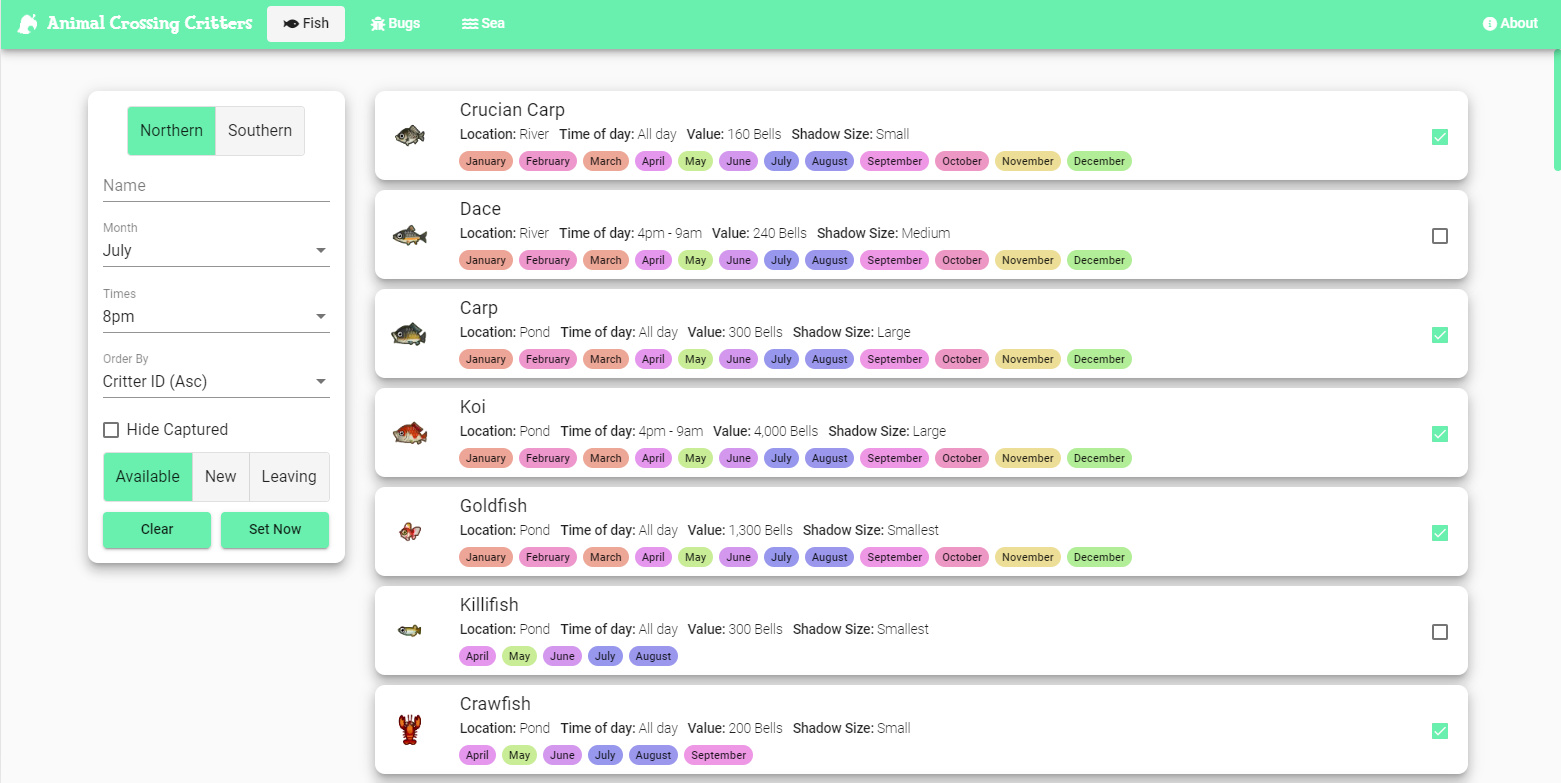
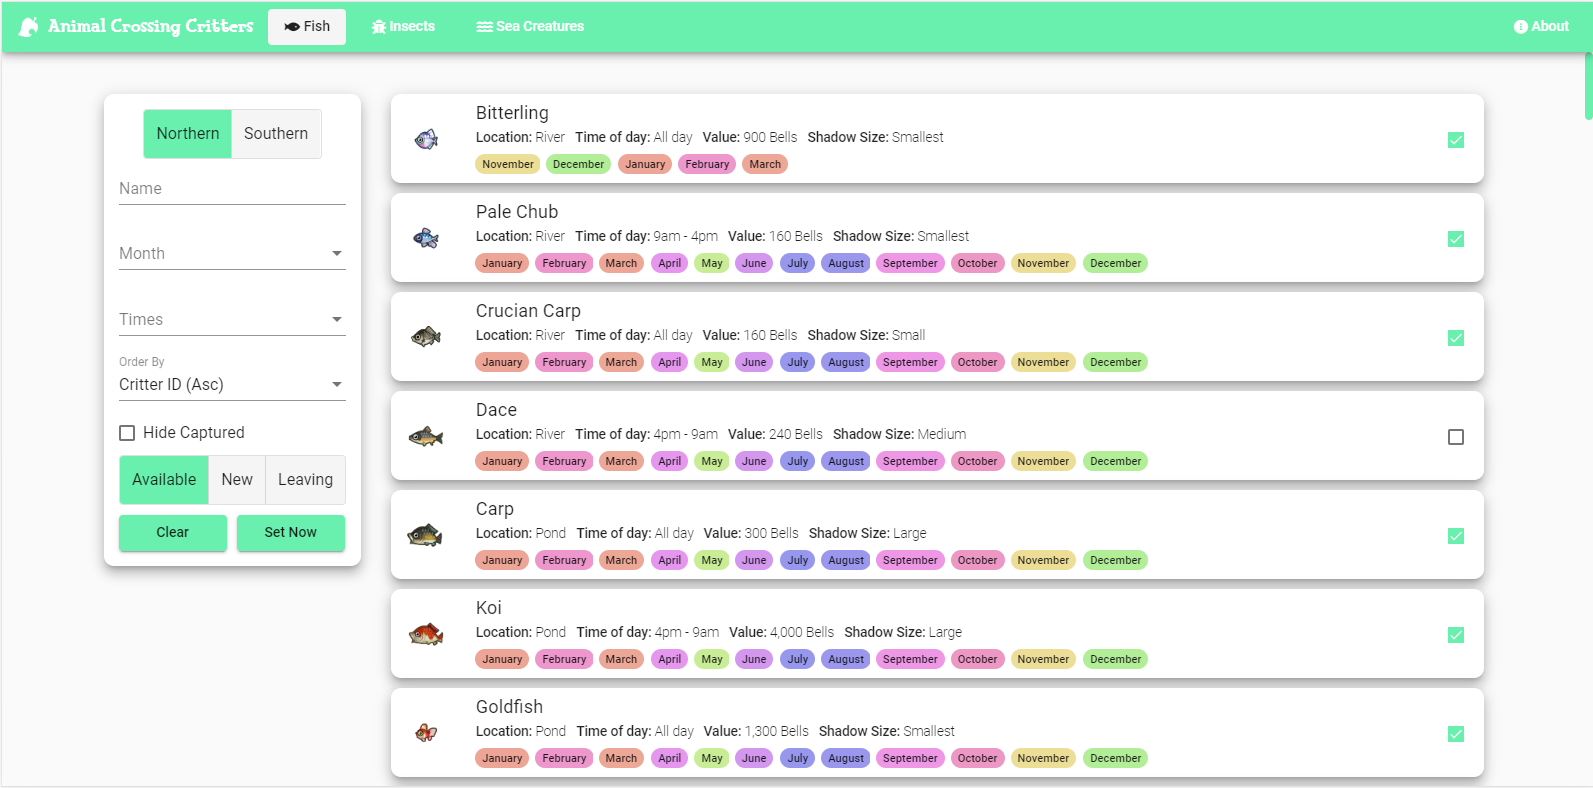
Changing bugs to Insects to mirror the game's language

diff --git a/AnimalCrossingTracker/src/app/sidenav/sidenav.component.html b/AnimalCrossingTracker/src/app/sidenav/sidenav.component.html
@@ -2,10 +2,10 @@
   <div [routerLink]="['/fish']" [routerLinkActive]="'menu-item-selected'" class="menu-item">
     <i class="fas fa-fish"></i> Fish
   </div>
-  <div [routerLink]="['/bugs']" [routerLinkActive]="'menu-item-selected'" class="menu-item">
-    <i class="fas fa-bug"></i> Bugs
+  <div [routerLink]="['/insects']" [routerLinkActive]="'menu-item-selected'" class="menu-item">
+    <i class="fas fa-bug"></i> Insects
   </div>
   <div [routerLink]="['/sea']" [routerLinkActive]="'menu-item-selected'" class="menu-item">
-    <i class="fas fa-water"></i> Sea
+    <i class="fas fa-water"></i> Sea Creatures
   </div>
 </div>

diff --git a/AnimalCrossingTracker/src/app/title-nav/title-nav.component.html b/AnimalCrossingTracker/src/app/title-nav/title-nav.component.html
@@ -3,11 +3,11 @@
     <i class="fas fa-fish"></i> Fish
   </button>
 
-  <button mat-flat-button [routerLink]="['/bugs']" [routerLinkActive]="'selected'" class="button">
-    <i class="fas fa-bug"></i> Bugs
+  <button mat-flat-button [routerLink]="['/insects']" [routerLinkActive]="'selected'" class="button">
+    <i class="fas fa-bug"></i> Insects
   </button>
 
   <button mat-flat-button [routerLink]="['/sea']" [routerLinkActive]="'selected'" class="button">
-    <i class="fas fa-water"></i> Sea
+    <i class="fas fa-water"></i> Sea Creatures
   </button>
 </div>

diff --git a/AnimalCrossingTracker/src/app/app-routing.module.ts b/AnimalCrossingTracker/src/app/app-routing.module.ts
@@ -8,8 +8,14 @@ import { DeepseaComponent } from './deepsea/deepsea.component';
 const routes: Routes = [
   { path: 'fish', component: FishComponent },
   { path: 'sea', component: DeepseaComponent },
-  { path: 'bugs', component: BugsComponent },
-  { path: '',
+  { path: 'insects', component: BugsComponent },
+  {
+    path: 'bugs',
+    redirectTo: '/insects',
+    pathMatch: 'full'
+  },
+  {
+    path: '',
     redirectTo: '/fish',
     pathMatch: 'full'
   },

diff --git a/README.md b/README.md
@@ -20,6 +20,7 @@ ng serve
 * 1.3.0
     * Added a new page for the newly added Sea Creatures
     * Changed hosting and automated build provider from Heroku to AWS Amplify
+    * Renamed the 'Bugs' button and route to 'Insects' to reflect the game's language.
     * Added a loading spinner while the data is being fetched
     * Refactored some of the generic display code to be more generic
     * Updated the versioning scheme
